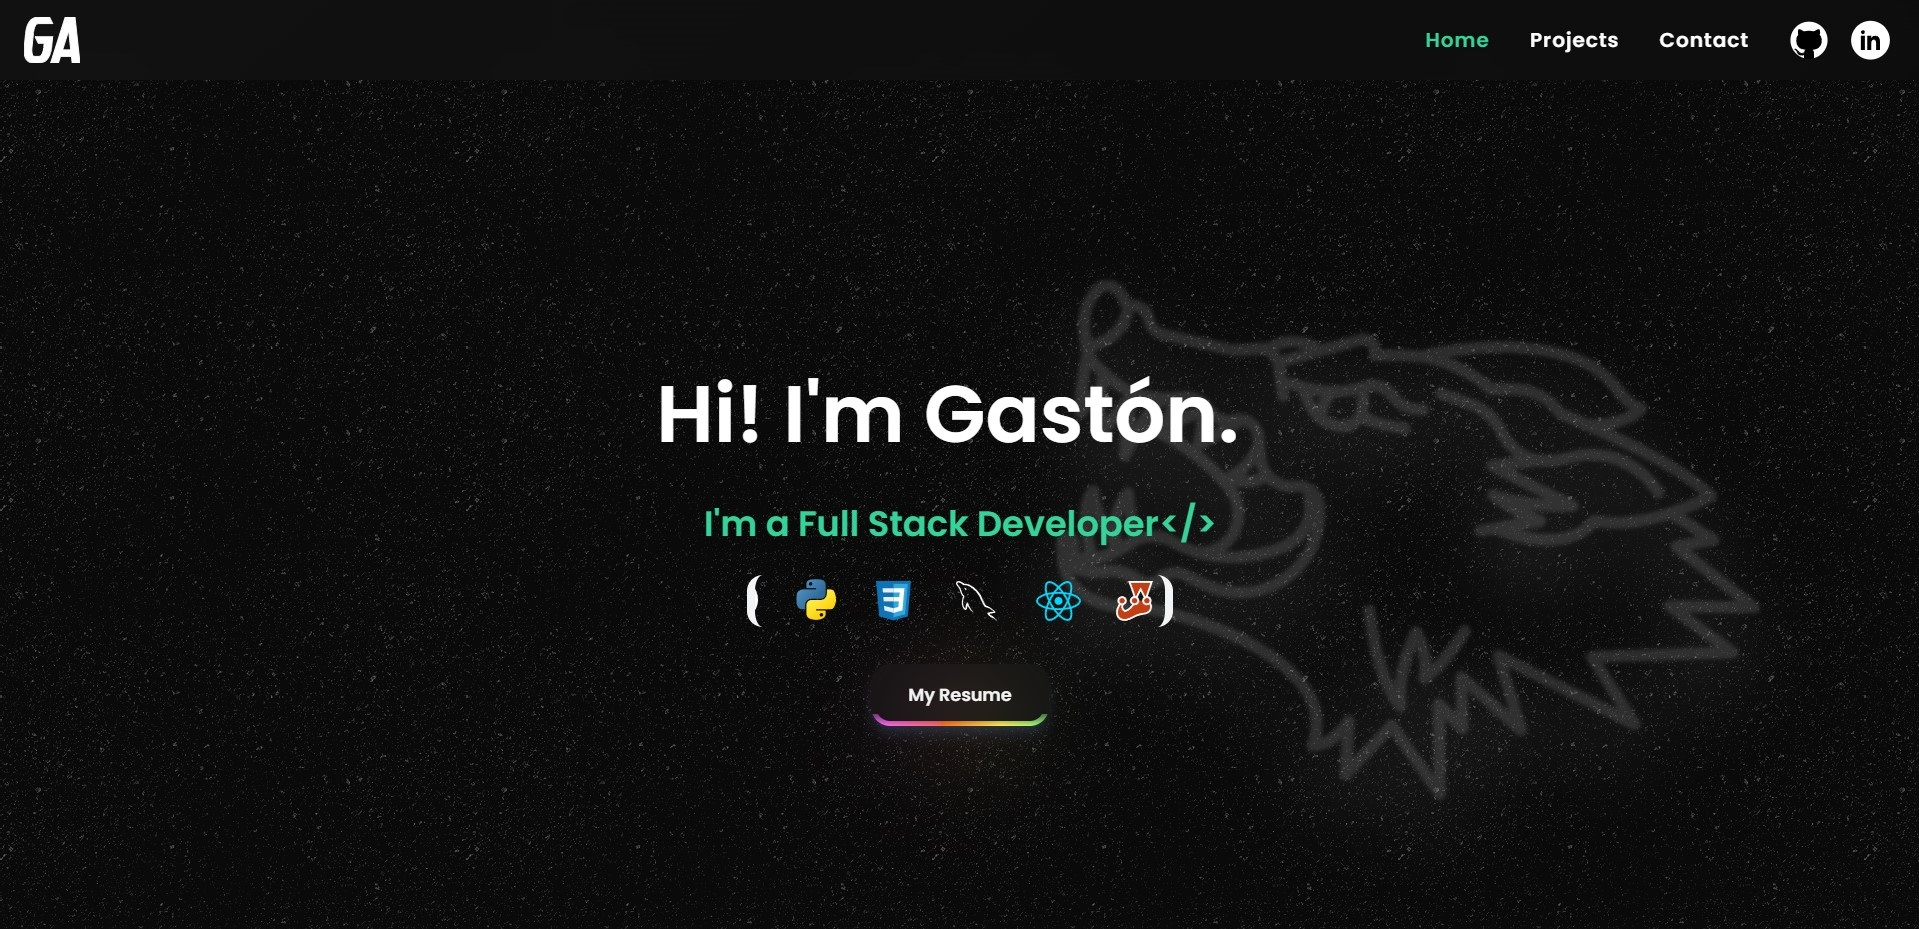
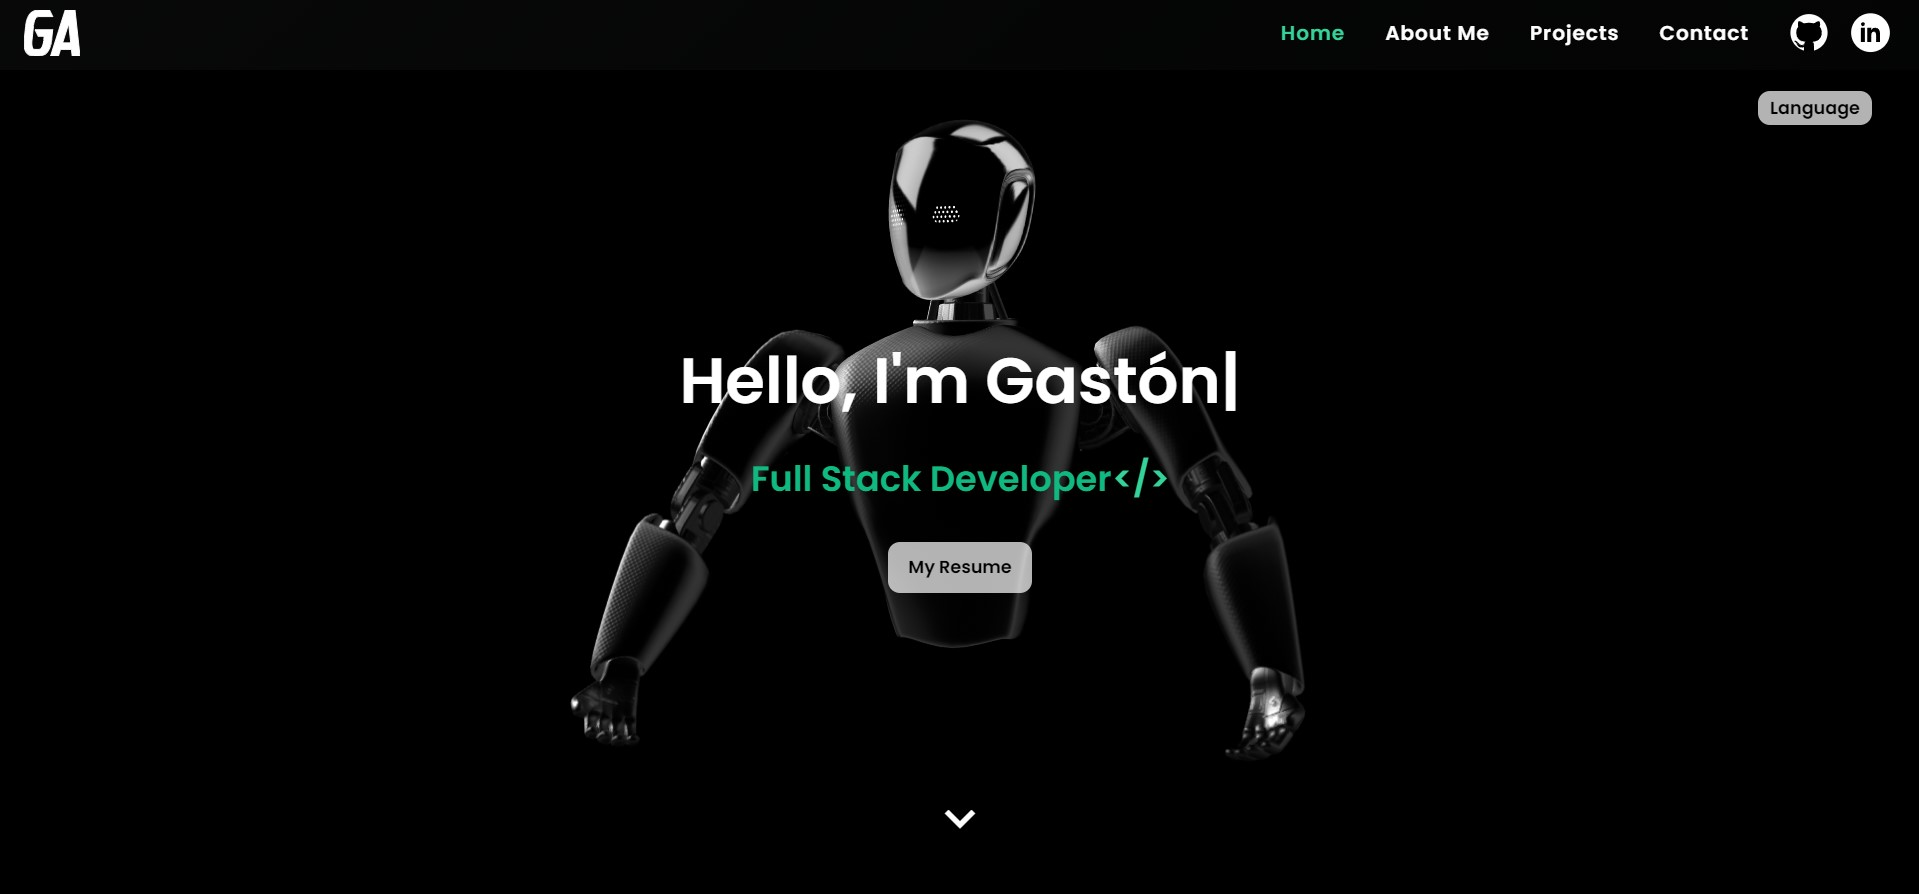
Update animations and add 3D effects in Contact, Home, and Presentation components

diff --git a/frontend/src/components/Contact.jsx b/frontend/src/components/Contact.jsx
@@ -48,7 +48,7 @@ export const Contact = () => {
           </div>
         </dialog>
        
-        <div className="flex px-6 h-screen items-center flex-col overflow-hidden">
+        <div className="flex px-6 h-screen contactBackground items-center flex-col overflow-hidden">
           <div className="flex-col z-20 flex tablet:flex-col space-x-5 phone:space-x-0  items-center justify-center mb-5">
             <div className="relative flex items-center py-5 text-[2rem] phone:text-[3rem] tablet:text-[3.7rem] tablet:pb-4 tablet:mt-[120px] mt-[60px]">
               <div className="flex-none border-t-4  border-emerald-800 w-screen"></div>
@@ -84,9 +84,9 @@ export const Contact = () => {
               </div>
             </Fade>
           </div>
-        <div className="absolute w-full h-full">
+        {/* <div className="absolute w-full h-full">
           <Spline scene="https://prod.spline.design/hFu6uCrd7dRvcgFT/scene.splinecode" />
-        </div>
+        </div> */}
           <form onSubmit={formik.handleSubmit} className="max-w-[1000px] w-full mt-5">
             <Fade triggerOnce={true} delay={100} duration={1500} fraction={0.4}>
               <div className="flex flex-col space-y-2 tablet:space-y-0 tablet:space-x-6 mb-2 tablet:flex-row">

diff --git a/frontend/src/components/Navbar.jsx b/frontend/src/components/Navbar.jsx
@@ -63,7 +63,7 @@ export const Navbar = ({ handleClickScroll, activeLink, setActiveLink }) => {
           ></label>
 
           <div
-            className="navGlass:backdrop-blur-[50px] navGlass:shadow-2xl links-container transition-right -right-[100%] flex flex-col items-center space-y-16 navGlass:h-screen tablet:max-w-[100%] min-w-[115px] max-w-[250px] w-[70vw] fixed top-0 z-10 shadow-2xl tablet:space-y-0
+              className="navGlass:backdrop-blur-[50px] navGlass:bg-black navGlass:bg-opacity-95 navGlass:glass navGlass:shadow-2xl links-container transition-right -right-[100%] flex flex-col items-center space-y-16 navGlass:h-screen tablet:max-w-[100%] min-w-[115px] max-w-[250px] w-[70vw] fixed top-0 z-10 shadow-2xl tablet:space-y-0
           tablet:mt-0 tablet:shadow-none tablet:w-[100%] tablet:flex-row tablet:space-x-10 tablet:static"
           >
             <div className="tablet:mr-auto flex items-center justify-center">

diff --git a/frontend/src/index.css b/frontend/src/index.css
@@ -18,6 +18,14 @@
 
 }
 
+.contactBackground {
+background: rgb(0, 0, 0);
+  background: -moz-linear-gradient(180deg, rgba(0, 0, 0, 1) 13%, rgba(1, 186, 159, 0.2777485994397759) 100%);
+  background: -webkit-linear-gradient(180deg, rgba(0, 0, 0, 1) 13%, rgba(1, 186, 159, 0.2777485994397759) 100%);
+  background: linear-gradient(180deg, rgba(0, 0, 0, 1) 13%, rgba(1, 186, 159, 0.2777485994397759) 100%);
+  filter: progid:DXImageTransform.Microsoft.gradient(startColorstr="#000000", endColorstr="#01ba9f", GradientType=1);
+}
+
 ::-webkit-scrollbar {
   display: none;
 }

diff --git a/frontend/src/components/Home.jsx b/frontend/src/components/Home.jsx
@@ -6,7 +6,7 @@ export const Home = ({ handleClickScroll, setActiveLink }) => {
   return (
     <>
         <div className="relative h-[100vh] justify-center  flex w-screen  items-center  tablet:h-[100vh]">
-        <Fade className='absolute w-full h-full z-0'  triggerOnce={true} delay={2000}  duration={2000}>
+        <Fade className='absolute w-full -right-2 h-full z-0'  triggerOnce={true} delay={2000}  duration={2000}>
           <Spline scene="https://prod.spline.design/1Np5iFnYpUkyE9pK/scene.splinecode" />
         </Fade>
           <div>
